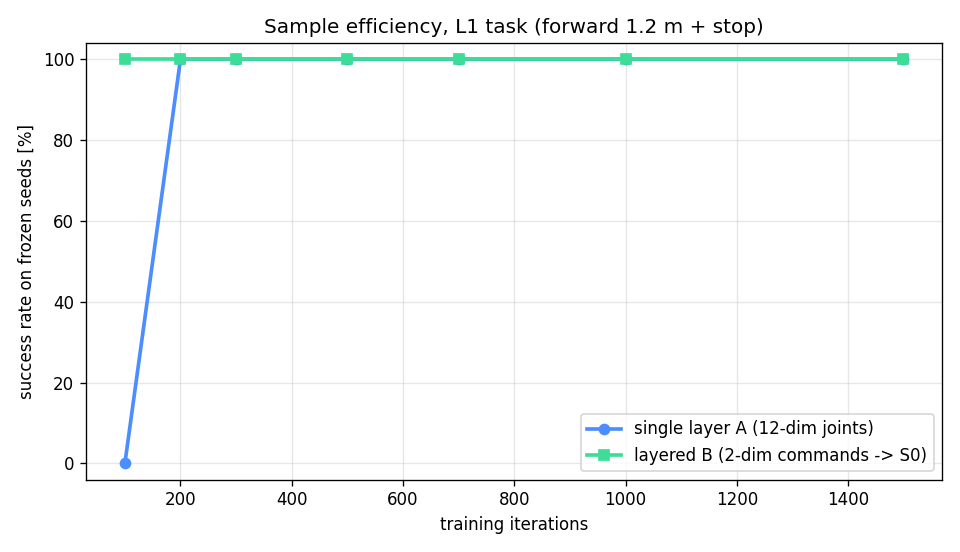
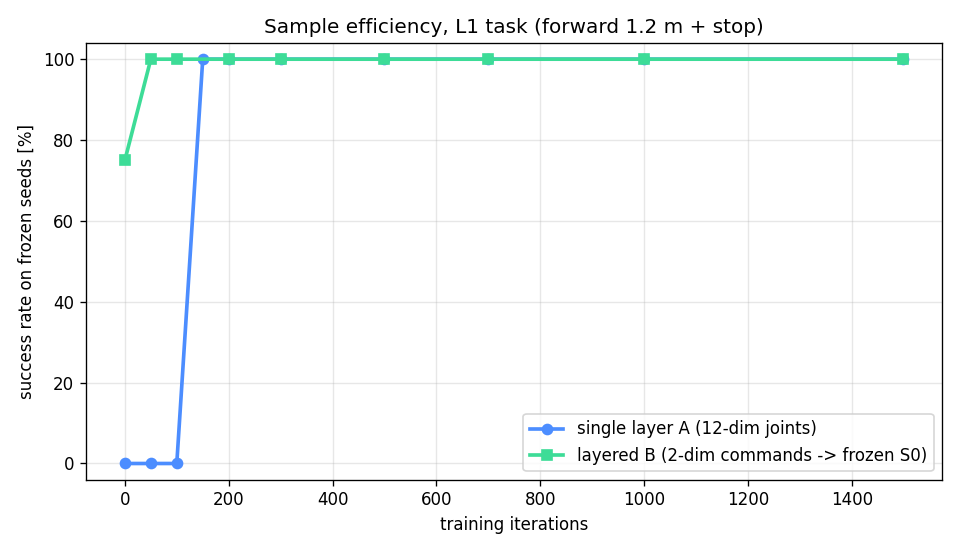
docs(ab): fine sweep sharpens the sample-efficiency gap to 50 iterations
With 50-iteration granularity (the checkpoint save interval):

  iteration    single A   layered B
       0         0.00        0.75
      50         0.00        1.00
     100         0.00        1.00
     150         1.00        1.00

The layered agent is already at 75% with an untrained S1 -- the advantage at
this task difficulty comes mostly from the action abstraction the pretrained
S0 provides, not from S1 learning fast. The report now says so explicitly and
adds a 'random S1' control as the next step, alongside the seed-variance
caveat and the S0 pretraining cost that is still outside B's budget.

Convergence factor by interval bounds: 1.5-3x (B in (50,100], A in (100,150]).

diff --git a/reports/training/ab_comparison.md b/reports/training/ab_comparison.md
@@ -23,36 +23,42 @@
 
 ## 2. 样本效率（关键结果）
 
-对训练中间 checkpoint 逐个评估同 20 个种子：
+对训练中间 checkpoint 逐个评估同 20 个种子（粗扫 100 步粒度 + 细扫 50 步粒度，受
+checkpoint 保存间隔限制）：
 
 | 迭代 | A 单层成功率 | B 分层成功率 |
 | --- | --- | --- |
-| 100 | **0.00** | **1.00** |
+| 0 | 0.00 | **0.75** |
+| 50 | 0.00 | **1.00** |
+| 100 | 0.00 | 1.00 |
+| 150 | **1.00** | 1.00 |
 | 200 | 1.00 | 1.00 |
-| 300 | 1.00 | 1.00 |
-| 500 | 1.00 | 1.00 |
-| 700 | 1.00 | 1.00 |
-| 1000 | 1.00 | 1.00 |
-| 1499 | 1.00 | 1.00 |
+| 300–1499 | 1.00 | 1.00 |
 
 曲线：`media/training/sweep_ab_comparison.png`
 
-**结论**：分层在第 100 迭代内达到 100%，单层需要 200 迭代（100 迭代时为 0%）。
-按已采样的点，**分层达到同等成功率所需训练量约为单层的一半**。
+**结论（按 50 迭代粒度）**：
+
+- **B 在 50 迭代达到 100%，且迭代 0（未训练）就有 75%**——S1 动作空间小到随机策略
+  也能碰对相当比例的 episode；
+- **A 在 150 迭代达到 100%，与 B 的差距为 100 迭代（约 2–3 倍）**；
+- A 的收敛是相变式的（100 迭代 0% → 150 迭代 100%），B 从 75% 平滑爬到 100%。
 
 局限必须写明：
 
-1. 采样粒度粗（100 迭代一档），两组的真实收敛点分别在 (0,100] 与 (100,200] 区间内，
-   "2 倍"是上界估计，精确值需要 25/50/75 与 125/150/175 的细扫。
+1. 粒度 50 迭代（checkpoint 保存间隔），真实收敛点分别在 (50,100]（B 可能更早）与
+   (100,150]（A）；倍数按区间上下界为 **1.5–3 倍**。
 2. 每个训练条件只有 **1 个训练种子**，没有跨种子方差；结论是单次观测。
-3. 分层 B 的 S0 来自 M1 的预训练策略，其训练成本（约 1200 秒）没有计入 B 的训练预算。
-   公平的比较是"B 的总成本 = S0 训练 + S1 训练"，而 A 只有一次训练。
+3. **B 的 S0 来自 M1 预训练（约 1200 秒），没有计入 B 的训练预算**。B 在迭代 0 就有
+   75% 成功率，正说明优势主要来自预训练 S0 提供的动作抽象，而不是 S1 本身学得快——
+   公平的"从零总成本"口径下，B = S0 训练 + S1 训练 > A。分层的真实收益在
+   **S0 复用**：同一 S0 服务第二个及以上任务时，边际成本只有 S1。
 
 ## 3. 对假设的支持程度
 
 | 假设 | 证据 | 判定 |
 | --- | --- | --- |
-| H1 分层样本效率更高 | 100 迭代内 100% vs 需要 200 | **部分支持**（单种子、粗粒度） |
+| H1 分层样本效率更高 | 50 迭代 100% vs 150 迭代 100%；迭代 0 时 B 已有 75% | **部分支持**（单种子；优势主要来自预训练 S0 的动作抽象，S1 本身学习增益需与"随机 S1"对照才能分离） |
 | H2 简单任务上无差异 | 最终成功率都是 1.00 | **支持** |
 | H3 分层失败可归因 | 尚未在 L2/L3 触发失败 | 未检验 |
 | H4 接口损失可量化 | 未测量 S0 跟踪误差对整体上限的影响 | 未检验 |
@@ -88,6 +94,8 @@ $env:PYTHONPATH = "$PWD"; $env:OMNI_KIT_ACCEPT_EULA = "YES"
 
 ## 6. 下一步
 
-1. **细扫收敛点**（25/50/75 与 125/150/175），把"2 倍"从估计变成测量。
-2. **补训练种子**（A/B 各 2 个额外种子），给出跨种子方差。
-3. **升到 L2/L3**（加转向、加长距离），检验 H3/H4——那里才可能出现真正的失败归因差异。
+1. ~~细扫收敛点~~ ✅ 已完成（50 粒度）：B 50 迭代、A 150 迭代达到 100%；B 未训练即 75%。
+2. **"随机 S1"对照**：不训练 S1（固定随机或零指令）直接评估，分离"预训练 S0 的贡献"
+   与"S1 学习的贡献"——迭代 0 的 75% 说明前者可能占主导。
+3. **补训练种子**（A/B 各 2 个额外种子），给出跨种子方差。
+4. **升到 L2/L3**（加转向、加长距离），检验 H3/H4——那里才可能出现真正的失败归因差异。
